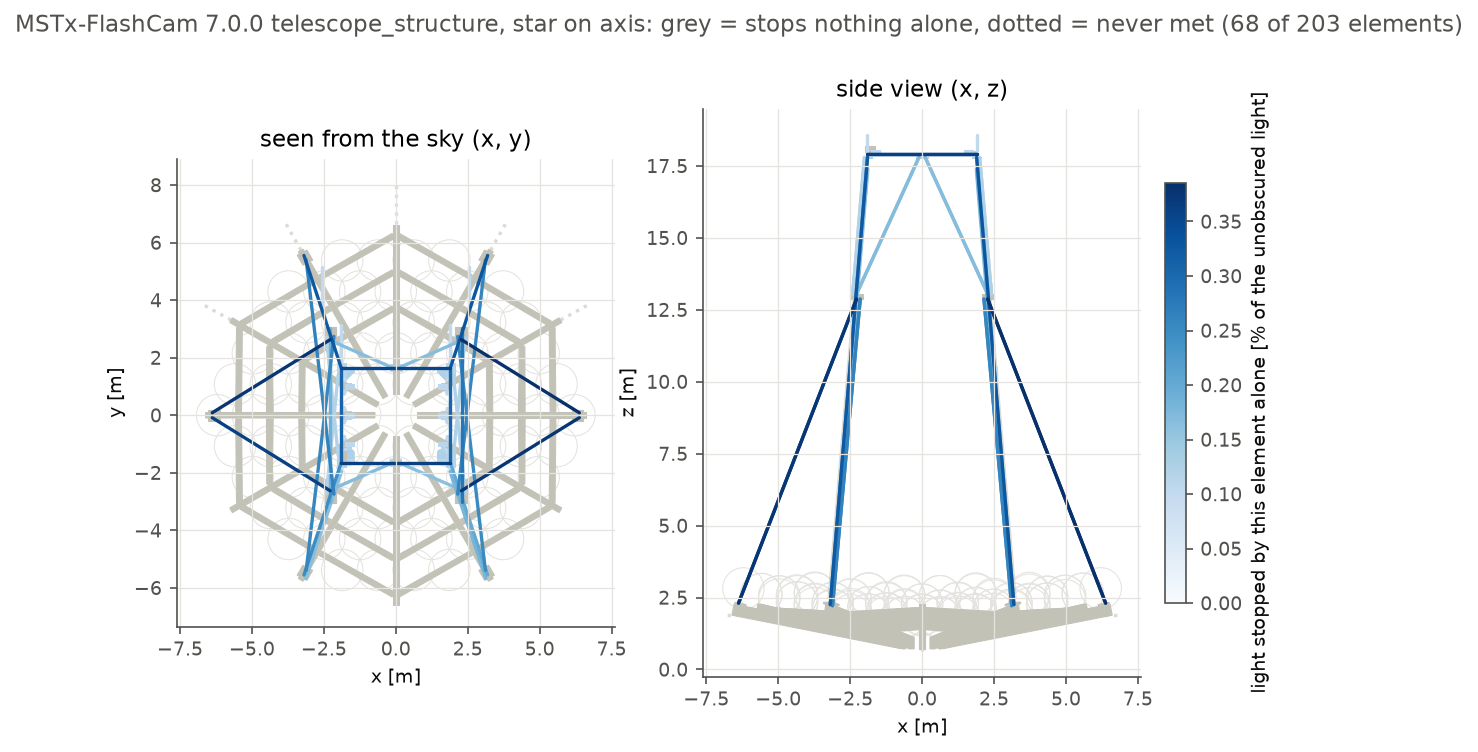
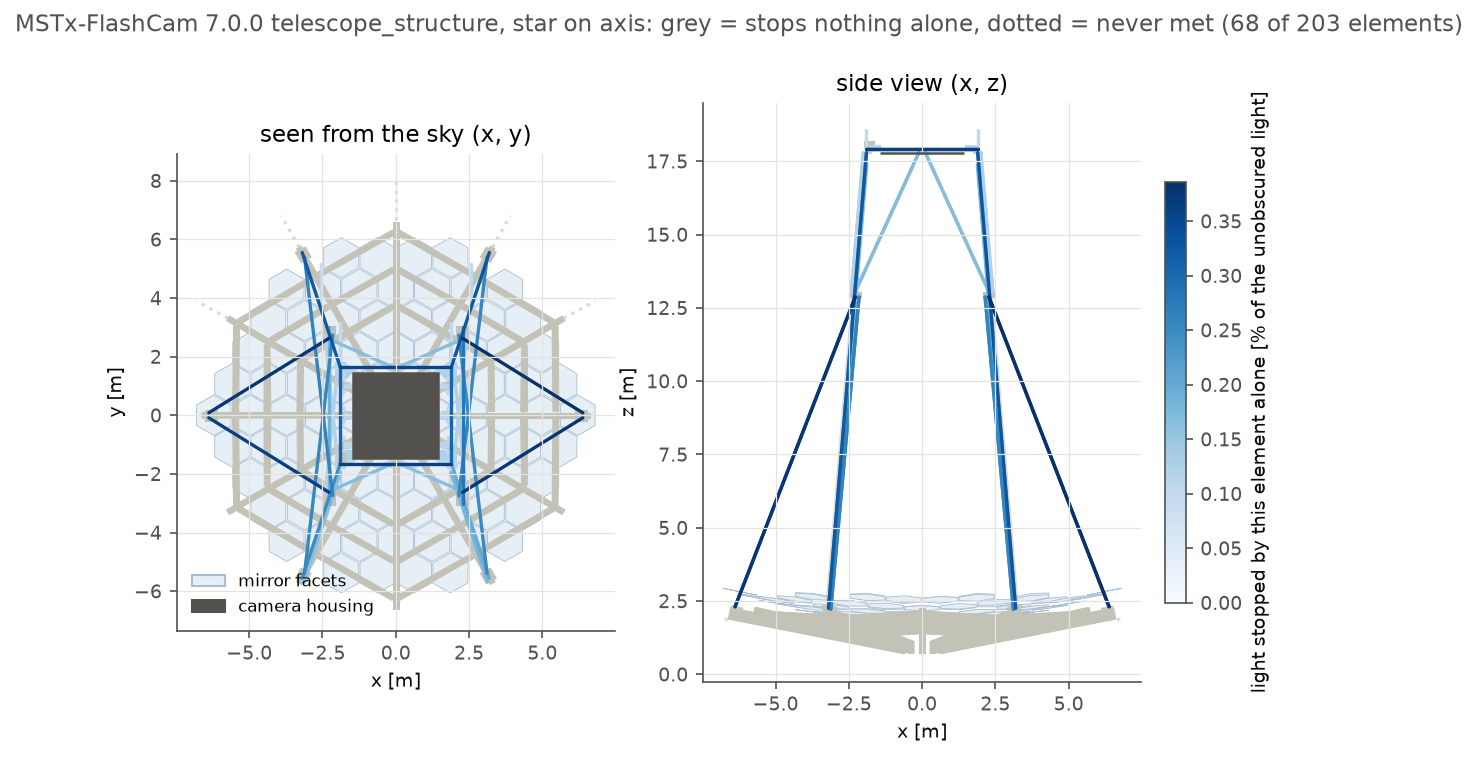
documentation

diff --git a/docs/_static/obdeect.css b/docs/_static/obdeect.css
@@ -1,0 +1,4 @@
+.navbar-brand .logo__image {
+  height: 4.5rem;
+  width: auto;
+}

diff --git a/docs/figures/make_figures.py b/docs/figures/make_figures.py
@@ -21,6 +21,7 @@ matplotlib.use("Agg")
 import matplotlib.pyplot as plt  # noqa: E402
 import numpy as np  # noqa: E402
 from astropy.table import QTable  # noqa: E402
+from matplotlib.patches import Patch  # noqa: E402
 from obdeect import OpticalModel  # noqa: E402
 
 OUTPUT = Path(__file__).resolve().parents[1] / "_static" / "figures"
@@ -28,6 +29,8 @@ OUTPUT = Path(__file__).resolve().parents[1] / "_static" / "figures"
 BLUE, ORANGE = "#2a78d6", "#eb6834"
 INK, MUTED, GRID = "#0b0b0b", "#52514e", "#e4e3df"
 STRUCTURE_MODEL = ("MSTx-FlashCam", "7.0.0")
+# Mirror facets and camera housing in the structure figure, apart from the blue scale.
+MIRROR, MIRROR_EDGE, HOUSING = "#e6eef6", "#a9bdd0", "#52514e"
 
 plt.rcParams.update({
     "axes.edgecolor": MUTED,
@@ -103,6 +106,22 @@ def _hull(points: np.ndarray) -> np.ndarray:
     return np.array([*ring, ring[0]])
 
 
+def _outline(centre, normal, tangent, aperture: str, half_width: float) -> np.ndarray:
+    """Corners in 3-D of a planar aperture, in the frame of obdeect (v = normal x tangent)."""
+    n = np.asarray(normal, dtype=float)
+    u = np.asarray(tangent, dtype=float)
+    u /= np.linalg.norm(u)
+    v = np.cross(n / np.linalg.norm(n), u)
+    h = half_width
+    r = 2 * h / np.sqrt(3)  # Circumradius of a hexagon with flats at +-h.
+    corners = {
+        "square": [(h, h), (-h, h), (-h, -h), (h, -h)],
+        "hexagon_flat_x": [(0, r), (h, r / 2), (h, -r / 2), (0, -r), (-h, -r / 2), (-h, r / 2)],
+        "hexagon_flat_y": [(r, 0), (r / 2, h), (-r / 2, h), (-r, 0), (-r / 2, -h), (r / 2, -h)],
+    }[aperture]
+    return np.asarray(centre, dtype=float) + np.array([a * u + b * v for a, b in corners])
+
+
 def structure(simulation_models: Path) -> None:
     """The MST structure seen from the sky and from the side, by the light each element stops."""
     name, version = STRUCTURE_MODEL
@@ -122,14 +141,20 @@ def structure(simulation_models: Path) -> None:
         axes, ((0, 1), (0, 2)), ("seen from the sky (x, y)", "side view (x, z)"), strict=True
     ):
         for facet in optics["primary"].get("facets", []):
-            c = facet["centre_m"]
-            ax.add_patch(
-                plt.Circle(
-                    (c[i], c[j]), 0.6 * facet["diameter_m"], fc="none", ec=GRID, lw=0.5, zorder=0
-                )
+            corners = _outline(
+                facet["centre_m"],
+                facet["normal"],
+                facet["tangent"],
+                facet["shape"],
+                0.5 * facet["diameter_m"],
             )
+            ax.fill(corners[:, i], corners[:, j], fc=MIRROR, ec=MIRROR_EDGE, lw=0.4, zorder=0)
         for o in optics["obscurers"]:
             if o["group"] == "camera":
+                corners = _outline(
+                    o["centre_m"], o["normal"], o["tangent"], o["aperture"], 0.5 * o["diameter_m"]
+                )
+                ax.fill(corners[:, i], corners[:, j], fc=HOUSING, ec=HOUSING, lw=1.2, zorder=2)
                 continue
             share = sole.get(o["name"], 0.0)
             colour = colormap(0.25 + 0.75 * min(share / top, 1.0)) if share > 0 else "#c3c2b7"
@@ -143,6 +168,15 @@ def structure(simulation_models: Path) -> None:
                 ring = _hull(np.array(o["vertices_m"])[:, [i, j]])
                 ax.fill(ring[:, 0], ring[:, 1], ec=style["color"], fc=style["color"], lw=0.5)
         ax.set(aspect="equal", xlabel="x [m]", ylabel="y [m]" if j == 1 else "z [m]", title=title)
+    axes[0].legend(
+        handles=[
+            Patch(fc=MIRROR, ec=MIRROR_EDGE, label="mirror facets"),
+            Patch(fc=HOUSING, ec=HOUSING, label="camera housing"),
+        ],
+        loc="lower left",
+        frameon=False,
+        fontsize=8,
+    )
     mappable = plt.cm.ScalarMappable(cmap=colormap, norm=plt.Normalize(0, top))
     bar = figure.colorbar(mappable, ax=axes, shrink=0.7, pad=0.02)
     bar.set_label("light stopped by this element alone [% of the unobscured light]")

diff --git a/docs/conf.py b/docs/conf.py
@@ -28,19 +28,21 @@ extensions = [
     "sphinx.ext.mathjax",
     "sphinx.ext.viewcode",
     "sphinx.ext.githubpages",
+    "sphinx_design",
 ]
 source_suffix = {".md": "markdown"}
 root_doc = "index"
 exclude_patterns = ["_build", "changes", "figures"]
 myst_heading_anchors = 3
-myst_enable_extensions = ["dollarmath"]
+myst_enable_extensions = ["colon_fence", "dollarmath"]
 nitpicky = False
 autodoc_typehints = "description"
 autodoc_member_order = "bysource"
 
 html_theme = "pydata_sphinx_theme"
 html_title = project
-html_logo = "_static/images/obdeect_small.jpg"
+html_logo = "_static/images/obdeect_21ratio_small.jpg"
+html_css_files = ["obdeect.css"]
 html_static_path = ["_static"]
 html_theme_options = {
     "navbar_start": ["navbar-logo"],

diff --git a/docs/index.md b/docs/index.md
@@ -1,40 +1,57 @@
 # obdeect
 
-obdeect traces photons through the optics of imaging atmospheric Cherenkov
-telescopes: from the sky, a light source or a shower photon bunch, over the
+obdeect is an optical ray tracer for imaging atmospheric Cherenkov
+telescopes and one of the ray-tracing backends of [simtools](https://github.com/gammasim/simtools).
+
+Photons might originate from the sky, a light source or a shower photon bunch, over the
 mirrors, past the telescope structure, to the camera entrance. It is a C++20
 library with a Python interface and a command line. The telescope is described
-by an **optical model**: one JSON document compiled from the CTAO simulation
-models (simulation-models repository), with the provenance of every parameter and file it was made from.
+by an optical model compiled from the CTAO simulation
+models.
 
-obdeect reproduces the optical part of sim_telarray and is one of the two
-ray-tracing backends of [simtools](https://github.com/gammasim/simtools)
-(`--ray_tracing_backend obdeect`). It is validated against sim_telarray for
-every CTAO telescope type: point-spread function, effective area, focal
-length, incidence angles, flashers and illuminators.
+::::{grid} 1 2 2 4
+:gutter: 3
 
-![Deviation of obdeect from sim_telarray](_static/figures/validation_psf_area.png)
+:::{grid-item-card} {fas}`bolt;pst-color-primary` User Guide
+:link: user-guide
+:link-type: doc
+:class-card: sd-shadow-sm
+
+Learn how to get started as a user.
+This guid will cover how to install obdeect, and introduce the main functionalities.
+:::
+
+:::{grid-item-card} {fas}`eye;pst-color-primary` Optics and Validation
+:link: physics-validation
+:link-type: doc
+:class-card: sd-shadow-sm
+
+Learn how obdeect builds the optical model and traces photons through it.
+Find validation results and comparisons with other ray-tracing backends.
+:::
+
+:::{grid-item-card} {fas}`book;pst-color-primary`  Python API
+:link: api
+:link-type: doc
+:class-card: sd-shadow-sm
+Learn about the `obdeect` Python API.
+:::
+
+:::{grid-item-card} {fas}`hammer;pst-color-primary` Changelog
+:link: changelog
+:link-type: doc
+:class-card: sd-shadow-sm
+Learn what has changed in each release of obdeect.
+:::
+
+::::
 
 ```{toctree}
-:maxdepth: 2
-:caption: User guide
-
-USER_GUIDE
-shadowing
-```
-
-```{toctree}
-:maxdepth: 2
-:caption: Physics and validation
-
-PHYSICS
-limitations
-VALIDATION
-```
-
-```{toctree}
+:hidden:
 :maxdepth: 1
-:caption: Reference
 
+user-guide
+physics-validation
 api
+changelog
 ```

diff --git a/docs/VALIDATION.md b/docs/VALIDATION.md
@@ -12,6 +12,8 @@ obdeect is validated in three layers:
 3. **Equivalence with sim_telarray** (below): the same simtools applications
    run with both backends on the same simulation models.
 
+![Deviation of obdeect from sim_telarray](_static/figures/validation_psf_area.png)
+
 ## How to repeat the comparison
 
 In a simtools environment with sim_telarray and obdeect installed, for each

diff --git a/docs/user-guide.md b/docs/user-guide.md
@@ -1,0 +1,12 @@
+# User Guide
+
+Install obdeect, compile an optical model from the simulation models, and trace
+photons from the command line or from Python. The pages below cover the
+workflow and the shadowing of the telescope structure.
+
+```{toctree}
+:maxdepth: 1
+
+USER_GUIDE
+shadowing
+```

diff --git a/docs/physics-validation.md b/docs/physics-validation.md
@@ -1,0 +1,12 @@
+# Physics and Validation
+
+What is traced and how the photon path is modelled, how the results compare with
+sim_telarray, and which effects are deliberately not implemented.
+
+```{toctree}
+:maxdepth: 1
+
+PHYSICS
+limitations
+VALIDATION
+```

diff --git a/docs/changelog.md b/docs/changelog.md
@@ -1,0 +1,2 @@
+```{include} ../CHANGELOG.md
+```
